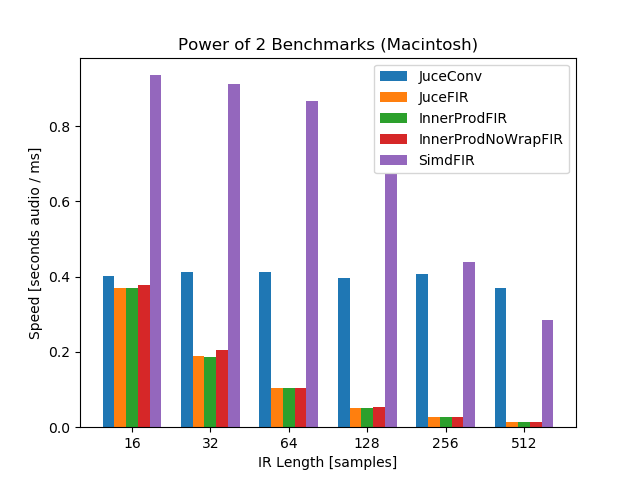
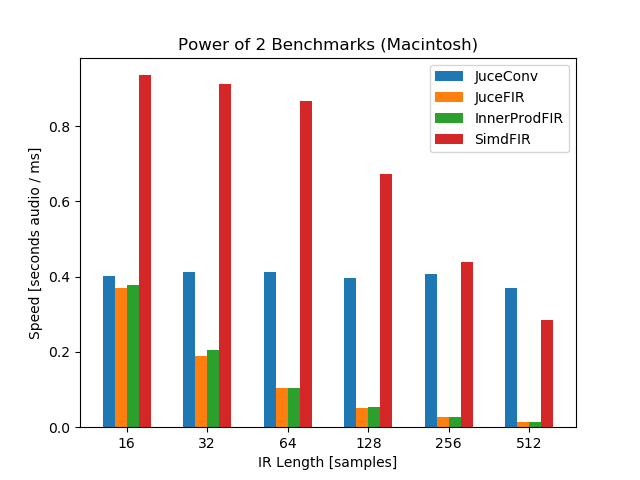
Update results

diff --git a/results/results.py b/results/results.py
@@ -11,12 +11,12 @@ def get_results_from_list(idx, lines, results):
     results['keys'].append(ir_size)
 
     blocks = {}
-    for i in range(1, 6):
+    for i in range(1, 5):
         out = lines[idx + i].split()
         blocks[out[0][:-1]] = 10.0 / float(out[1])
 
     results[ir_size] = blocks
-    return idx+6
+    return idx+5
 
 
 def get_results_from_file(file):
@@ -48,7 +48,7 @@ def get_results_from_file(file):
 
 def plot_results(results, title='', file=None):
     keys = results['keys']
-    types = ['JuceConv', 'JuceFIR', 'InnerProdFIR', 'InnerProdNoWrapFIR', 'SimdFIR']
+    types = ['JuceConv', 'JuceFIR', 'InnerProdFIR', 'SimdFIR']
 
     ind = np.arange(len(keys))
     width = 0.15
